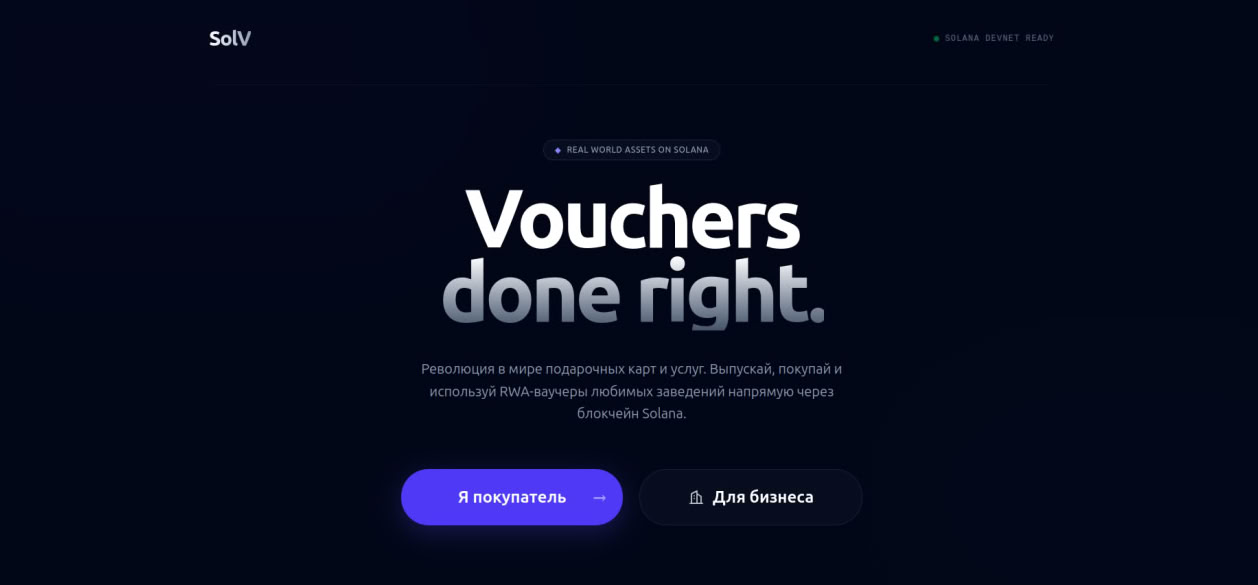
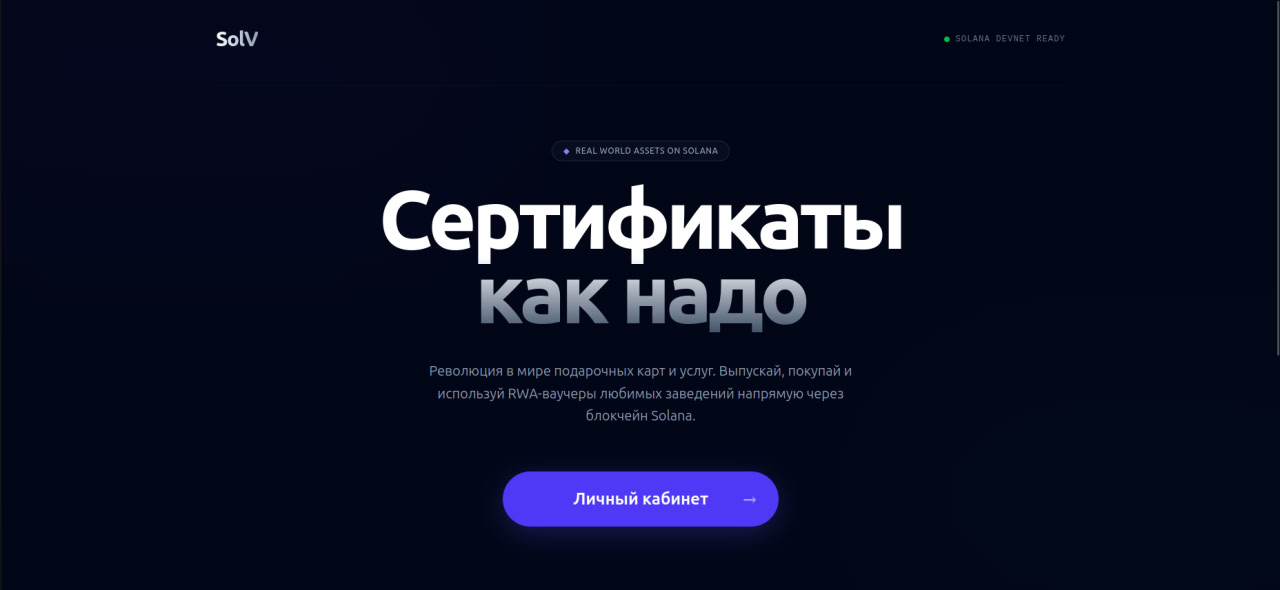
fix: update assets

diff --git a/programs/rwa/src/lib.rs b/programs/rwa/src/lib.rs
@@ -1,7 +1,6 @@
 use anchor_lang::prelude::*;
 use anchor_lang::system_program::{transfer, Transfer};
 
-
 declare_id!("ADQjPmwcq7mTgW4FHuopimbKPzQrpcikAkpsNHT18p7K");
 
 #[program]
@@ -14,10 +13,11 @@ pub mod sol_voucher {
         name: String,
         description: String,
         image_url: String,
-        document_hash: String, // Хеш юридического документа (Oracle Proof)
+        document_hash: String,
+        document_url: String,
         unit_price: u64,
         total_units: u16,
-        expiry_date: i64,      //окончания действия
+        expiry_date: i64,
     ) -> Result<()> {
         let voucher_config = &mut ctx.accounts.voucher_config;
         voucher_config.authority = ctx.accounts.authority.key();
@@ -25,6 +25,7 @@ pub mod sol_voucher {
         voucher_config.description = description;
         voucher_config.image_url = image_url;
         voucher_config.document_hash = document_hash;
+        voucher_config.document_url = document_url;
         voucher_config.unit_price = unit_price;
         voucher_config.total_units = total_units;
         voucher_config.remaining_units = total_units; 
@@ -33,16 +34,15 @@ pub mod sol_voucher {
         voucher_config.vault_pda = ctx.accounts.vault_pda.key();
         voucher_config.bump = ctx.bumps.voucher_config;
         
-        msg!("RWA Series Created. Hash: {}", voucher_config.document_hash);
+        msg!("RWA Series Created: {}", voucher_config.name);
         Ok(())
     }
 
-    /// Покупка юнитов пользователем. Деньги блокируются в Vault PDA.
+    /// Покупка юнитов. Деньги блокируются в Vault PDA.
     pub fn purchase_voucher(ctx: Context<PurchaseVoucher>, amount_to_buy: u16) -> Result<()> {
         let voucher_config = &mut ctx.accounts.voucher_config;
         let clock = Clock::get()?;
 
-        // Валидация состояния
         require!(voucher_config.is_active, VoucherError::ContractPaused);
         require!(clock.unix_timestamp < voucher_config.expiry_date, VoucherError::VoucherExpired);
         require!(voucher_config.remaining_units >= amount_to_buy, VoucherError::NotEnoughUnitsInSeries);
@@ -50,7 +50,6 @@ pub mod sol_voucher {
         let total_cost = voucher_config.unit_price.checked_mul(amount_to_buy as u64)
             .ok_or(VoucherError::MathOverflow)?;
 
-        // Перевод SOL от покупателя в защищенное хранилище (Vault)
         let cpi_ctx = CpiContext::new(
             ctx.accounts.system_program.to_account_info(),
             Transfer {
@@ -60,29 +59,25 @@ pub mod sol_voucher {
         );
         transfer(cpi_ctx, total_cost)?;
 
-        // Обновление состояния
         voucher_config.remaining_units -= amount_to_buy;
+        
         let user_voucher = &mut ctx.accounts.user_voucher;
         user_voucher.owner = ctx.accounts.buyer.key();
         user_voucher.config = voucher_config.key();
         user_voucher.remaining_units += amount_to_buy;
 
-        msg!("Purchased {} units. Vault updated.", amount_to_buy);
+        msg!("Purchased {} units.", amount_to_buy);
         Ok(())
     }
 
-    /// Погашение юнитов (Скан QR-кода). Деньги уходят бизнесу.
-    /// Погашение юнитов (Скан QR-кода). Деньги уходят бизнесу.
-    pub fn redeem_unit(ctx: Context<RedeemUnit>, owner_pubkey: Pubkey, units_to_redeem: u16) -> Result<()> {
+    /// Погашение юнитов. Деньги уходят бизнесу.
+    pub fn redeem_unit(ctx: Context<RedeemUnit>, _owner_pubkey: Pubkey, units_to_redeem: u16) -> Result<()> {
         let user_voucher = &mut ctx.accounts.user_voucher;
         
-        // 1. Проверки
         require!(user_voucher.remaining_units >= units_to_redeem, VoucherError::NoUnitsLeft);
         
-        // 2. Списание юнитов
         user_voucher.remaining_units -= units_to_redeem;
 
-        // 3. Расчет выплаты бизнесу
         let total_payout = ctx.accounts.voucher_config.unit_price.checked_mul(units_to_redeem as u64)
             .ok_or(VoucherError::MathOverflow)?;
 
@@ -94,7 +89,6 @@ pub mod sol_voucher {
         ];
         let signer_seeds = &[&seeds[..]];
 
-        // 4. Перевод SOL из Vault на кошелек бизнеса (Authority)
         let cpi_ctx = CpiContext::new_with_signer(
             ctx.accounts.system_program.to_account_info(),
             Transfer {
@@ -105,42 +99,43 @@ pub mod sol_voucher {
         );
         transfer(cpi_ctx, total_payout)?;
 
-        // 5. ФИКС: Если юниты закончились, закрываем аккаунт и возвращаем Rent владельцу
+        // ГАРАНТИРОВАННОЕ ЗАКРЫТИЕ ПРИ 0 ЮНИТОВ
         if user_voucher.remaining_units == 0 {
             let owner_info = ctx.accounts.owner_account.to_account_info();
             let voucher_info = ctx.accounts.user_voucher.to_account_info();
             
-            let owner_starting_lamports = owner_info.lamports();
-            **owner_info.lamports.borrow_mut() = owner_starting_lamports
+            let dest_starting_lamports = owner_info.lamports();
+            **owner_info.lamports.borrow_mut() = dest_starting_lamports
                 .checked_add(voucher_info.lamports())
                 .unwrap();
             **voucher_info.lamports.borrow_mut() = 0;
+
+            // Затираем данные, чтобы аккаунт перестал существовать для Anchor
+            let mut data = voucher_info.data.borrow_mut();
+            data.fill(0);
             
-            msg!("Voucher fully redeemed and account closed. Rent returned to owner.");
+            msg!("Voucher fully redeemed. Rent returned, data cleared.");
         }
 
-        msg!("Redeemed {} units. Payout sent to authority.", units_to_redeem);
         Ok(())
     }
 
-    /// Экстренная остановка/запуск продаж
-    pub fn toggle_active(ctx: Context<UpdateConfig>, status: bool) -> Result<()> {
-        ctx.accounts.voucher_config.is_active = status;
-        msg!("Voucher active status set to: {}", status);
-        Ok(())
-    }
-
-    /// Полный возврат средств и закрытие аккаунта пользователя
+    /// Полный возврат средств пользователю и закрытие аккаунта
     pub fn refund_and_close(ctx: Context<RefundVoucher>) -> Result<()> {
-        let user_voucher = &ctx.accounts.user_voucher;
-        let refund_amount = (user_voucher.remaining_units as u64)
+        let remaining_units = ctx.accounts.user_voucher.remaining_units;
+        
+        let refund_amount = (remaining_units as u64)
             .checked_mul(ctx.accounts.voucher_config.unit_price)
             .ok_or(VoucherError::MathOverflow)?;
         
         require!(refund_amount > 0, VoucherError::NothingToRefund);
 
         let config_key = ctx.accounts.voucher_config.key();
-        let seeds = &[b"vault".as_ref(), config_key.as_ref(), &[ctx.bumps.vault_pda]];
+        let seeds = &[
+            b"vault".as_ref(), 
+            config_key.as_ref(), 
+            &[ctx.bumps.vault_pda]
+        ];
         let signer_seeds = &[&seeds[..]];
 
         let cpi_ctx = CpiContext::new_with_signer(
@@ -153,20 +148,29 @@ pub mod sol_voucher {
         );
         transfer(cpi_ctx, refund_amount)?;
 
+        // Возвращаем юниты обратно в продажу
+        let voucher_config = &mut ctx.accounts.voucher_config;
+        voucher_config.remaining_units += remaining_units;
+
+        msg!("Refund successful. Units returned to pool.");
+        Ok(())
+    }
+
+    pub fn toggle_active(ctx: Context<UpdateConfig>, status: bool) -> Result<()> {
+        ctx.accounts.voucher_config.is_active = status;
         Ok(())
     }
 }
 
-// --- Структуры данных ---
+// --- Структуры аккаунтов ---
 
 #[derive(Accounts)]
-#[instruction(name: String, description: String, image_url: String, document_hash: String)]
+#[instruction(name: String, description: String, image_url: String, document_hash: String, document_url: String)]
 pub struct InitializeVoucher<'info> {
     #[account(
         init, 
         payer = authority, 
-        // 8(disc) + 32(pubkey) + (4+40 name) + (4+200 desc) + (4+200 img) + (4+64 hash) + 8(price) + 2(total) + 2(rem) + 8(expiry) + 1(bool) + 32(vault) + 1(bump)
-        space = 8 + 32 + 44 + 204 + 204 + 68 + 8 + 2 + 2 + 8 + 1 + 32 + 1,
+        space = 8 + 32 + 44 + 512 + 204 + 68 + 204 + 8 + 2 + 2 + 8 + 1 + 32 + 1,
         seeds = [b"config", name.as_bytes()], 
         bump
     )]
@@ -177,7 +181,7 @@ pub struct InitializeVoucher<'info> {
         seeds = [b"vault", voucher_config.key().as_ref()],
         bump
     )]
-    /// CHECK: Системный PDA для хранения SOL
+    /// CHECK: PDA Vault
     pub vault_pda: AccountInfo<'info>,
 
     #[account(mut)]
@@ -206,29 +210,24 @@ pub struct PurchaseVoucher<'info> {
 }
 
 #[derive(Accounts)]
-#[instruction(owner_pubkey: Pubkey)] // Получаем адрес владельца из аргументов вызова
+#[instruction(owner_pubkey: Pubkey)] 
 pub struct RedeemUnit<'info> {
     #[account(mut, constraint = voucher_config.authority == authority.key())]
     pub authority: Signer<'info>, 
-
     #[account(mut)]
     pub voucher_config: Account<'info, VoucherConfig>,
-
     #[account(
         mut, 
         seeds = [b"user_voucher", owner_pubkey.as_ref(), voucher_config.key().as_ref()], 
         bump
     )]
     pub user_voucher: Account<'info, UserVoucher>,
-
-    /// CHECK: Аккаунт владельца ваучера, сюда вернется Rent при закрытии
     #[account(mut, address = user_voucher.owner)]
+    /// CHECK: Получатель Rent
     pub owner_account: AccountInfo<'info>,
-
     #[account(mut, seeds = [b"vault", voucher_config.key().as_ref()], bump)]
     /// CHECK: PDA Vault
     pub vault_pda: AccountInfo<'info>,
-
     pub system_program: Program<'info, System>,
 }
 
@@ -236,9 +235,11 @@ pub struct RedeemUnit<'info> {
 pub struct RefundVoucher<'info> {
     #[account(mut)]
     pub buyer: Signer<'info>,
+    #[account(mut)]
     pub voucher_config: Account<'info, VoucherConfig>,
     #[account(
-        mut, close = buyer, 
+        mut, 
+        close = buyer, 
         seeds = [b"user_voucher", buyer.key().as_ref(), voucher_config.key().as_ref()],
         bump
     )]
@@ -256,6 +257,8 @@ pub struct UpdateConfig<'info> {
     pub authority: Signer<'info>,
 }
 
+// --- Состояние ---
+
 #[account]
 pub struct VoucherConfig {
     pub authority: Pubkey,
@@ -263,6 +266,7 @@ pub struct VoucherConfig {
     pub description: String,
     pub image_url: String,
     pub document_hash: String,
+    pub document_url: String,
     pub unit_price: u64,
     pub total_units: u16,     
     pub remaining_units: u16, 
@@ -281,10 +285,10 @@ pub struct UserVoucher {
 
 #[error_code]
 pub enum VoucherError {
-    #[msg("Units not enough.")] NoUnitsLeft,
+    #[msg("No units left in your voucher.")] NoUnitsLeft,
     #[msg("Series sold out.")] NotEnoughUnitsInSeries,
-    #[msg("Voucher expired.")] VoucherExpired,
-    #[msg("Contract paused.")] ContractPaused,
+    #[msg("Voucher series expired.")] VoucherExpired,
+    #[msg("Contract is currently paused.")] ContractPaused,
     #[msg("Nothing to refund.")] NothingToRefund,
-    #[msg("Math overflow.")] MathOverflow,
+    #[msg("Math calculation overflow.")] MathOverflow,
 }

diff --git a/docs/roadmap.md b/docs/roadmap.md
@@ -7,16 +7,20 @@
 - [x] **Merchant Dashboard**: Core interface for businesses to issue vouchers, monitor redemptions.
 
 ## v1.1 - Mainnet Alpha
+- [ ] **Permanent Legal Vault (Arweave)**: Decentralized storage for Public Offers to ensure a permanent link between the on-chain asset and its legal contract.
 - [ ] **Secondary Market**: A built-in DEX for users to trade or resell their unused vouchers.
 - [ ] **Fiat On-ramp**: Integration with Stripe/MoonPay to allow credit card purchases directly into the SolV Vault.
-- [ ] **Subscription Vouchers**: Recursive billing logic for monthly services (gyms, co-workings).
-- [ ] **Solana Mobile Integration**: Native dApp development using **Solana Mobile Stack (SMS)** for secure, Seed-Vault protected merchant redemption flows.
-- [ ] **Merchant Mobile SDK**: A lightweight QR-scanner app for physical stores to verify and "burn" vouchers.
+- [ ] **Stablecoin Settlement**: Support for USDC and Evo (KZT) to eliminate price volatility for brick-and-mortar merchants.
 
 
 ## v1.2 - Mainnet Beta
 - [ ] **Atomic Refunds**: Implementation of a 24-hour "cool-down" period for instant on-chain refunds.
 - [ ] **Compression (pNFTs)**: Migrating UserVoucher PDAs to State Compression to support millions of vouchers at near-zero rent costs.
+- [ ] **Merchant Mobile SDK**: A lightweight QR-scanner app for physical stores to verify and "burn" vouchers.
+- [ ] **Subscription Vouchers**: Recursive billing logic for monthly services (gyms, co-workings).
+- [ ] **Solana Mobile Integration**: Native dApp development using **Solana Mobile Stack (SMS)** for secure, Seed-Vault protected merchant redemption flows.
+- [ ] **Yield-Bearing Escrow**: Integration with LST protocols (Jito/Marinade) to generate passive yield for businesses on funds locked in the SolV Vault.
+
 
 ## v2.0 Ecosystem Growth
 - [ ] **Cross-chain Vouchers**: Expansion to other SVM-based chains and L2s.
